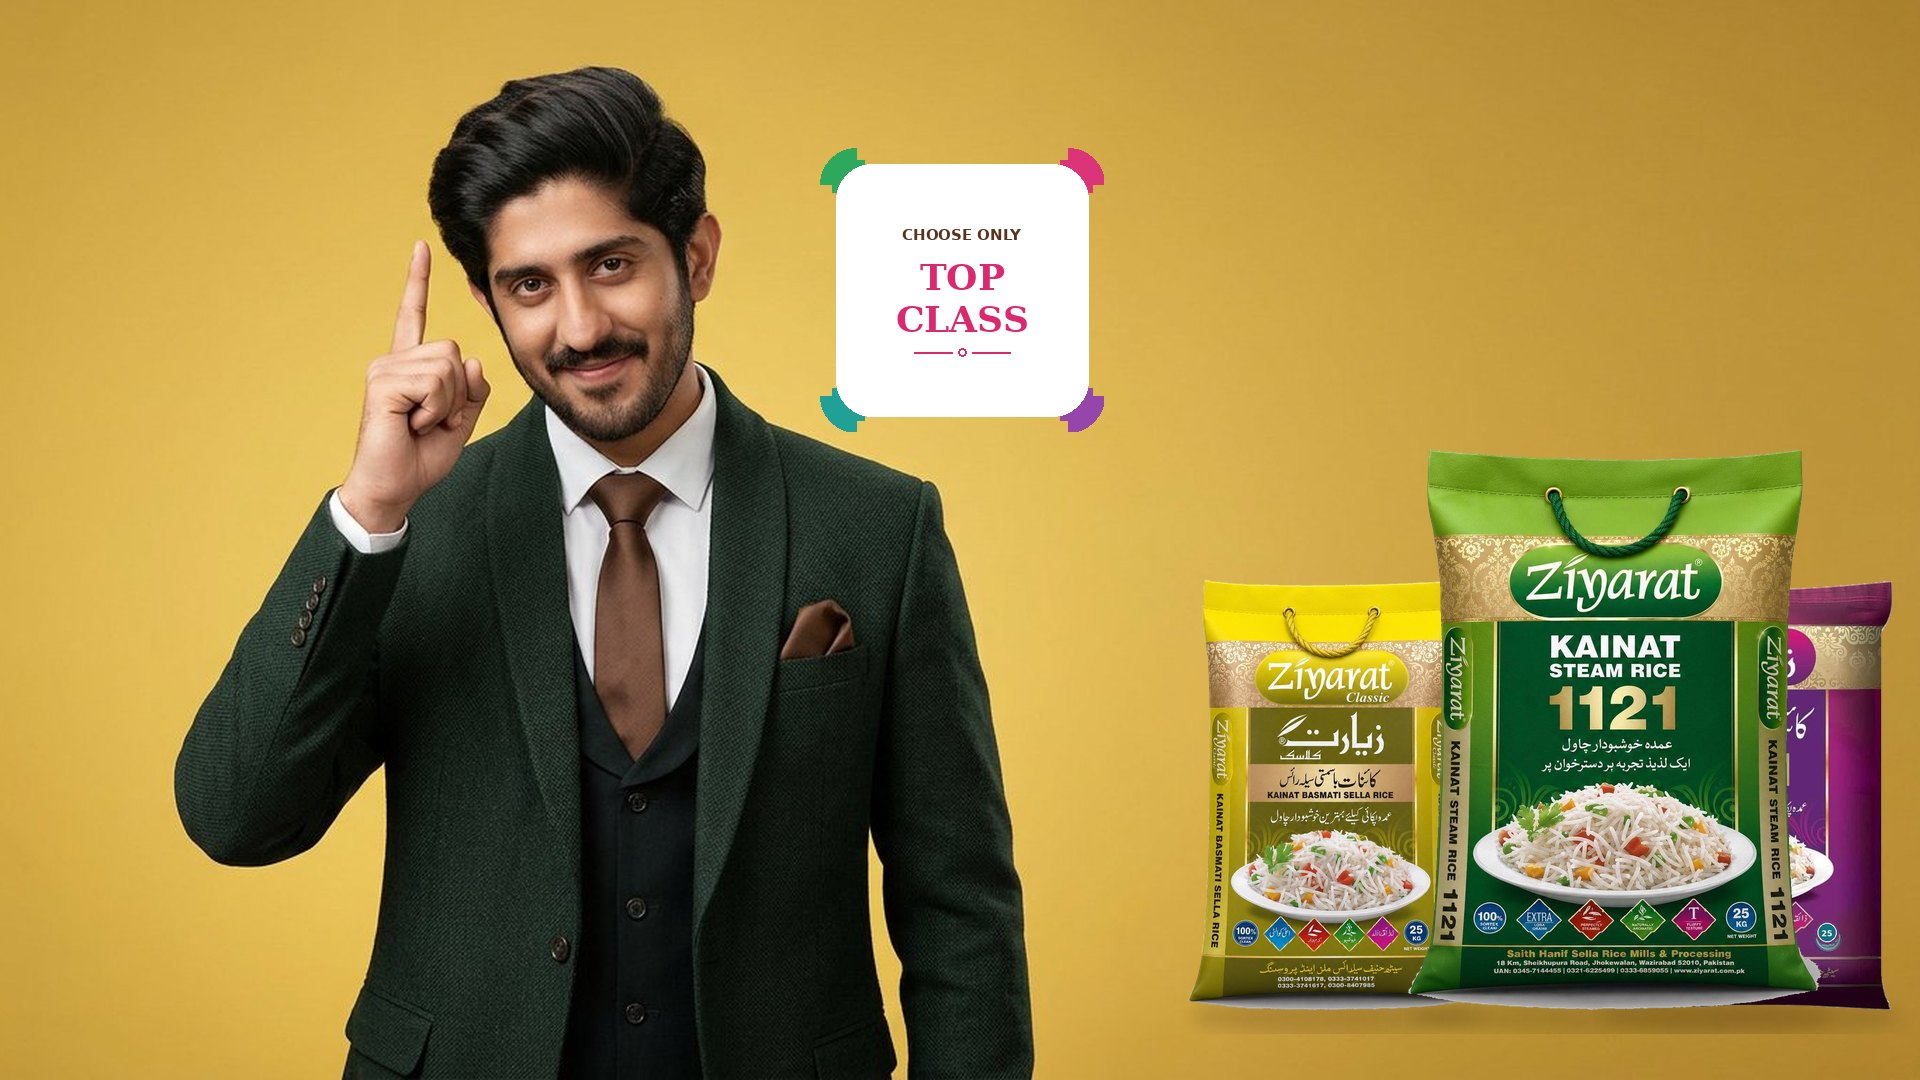
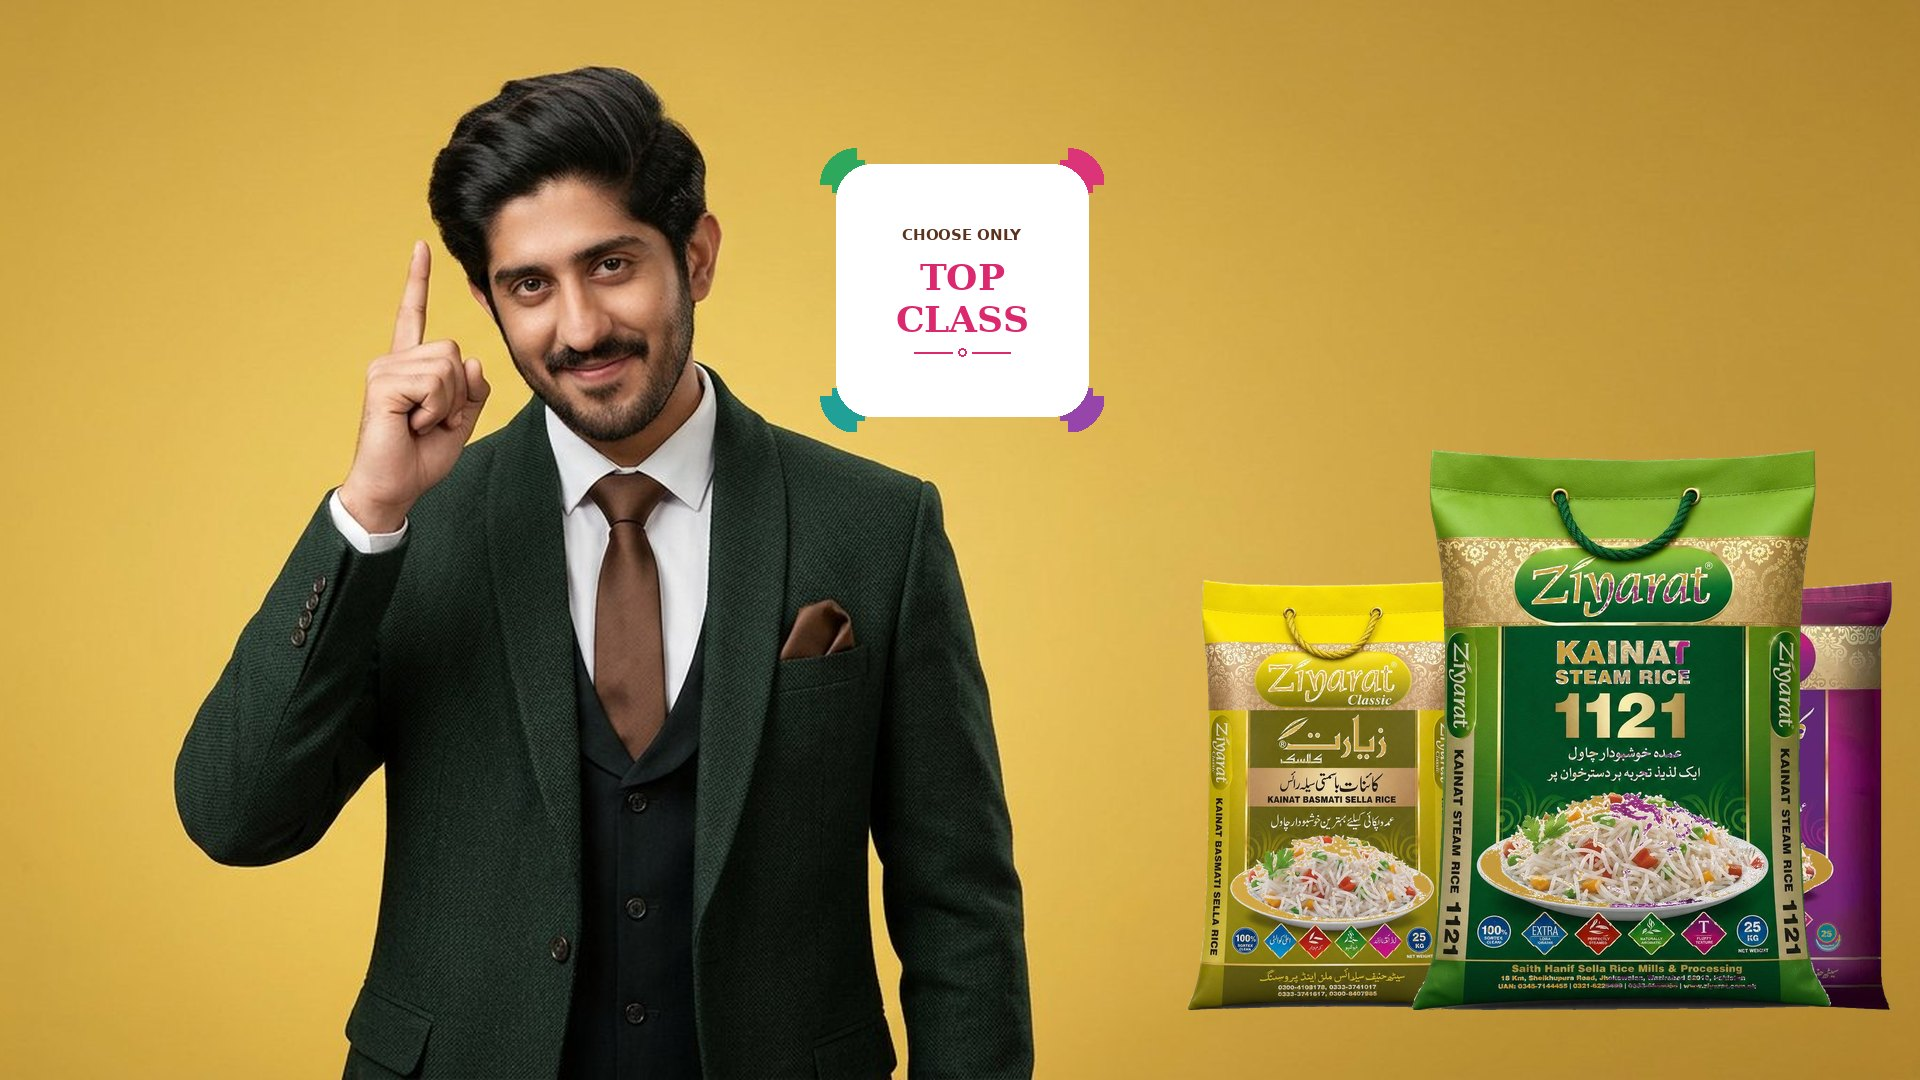
Products hero: drop the off-white shade under the packs.
Bags sit clean on the yellow. Packaging unchanged.

Changed region(s): [[0.625, 0.4278, 0.9688, 0.9778]]

diff --git a/products.html b/products.html
@@ -56,7 +56,7 @@
 
     <section class="hero page-hero products-campaign">
       <div class="hero-media">
-        <img src="assets/images/hero-products-campaign.jpg?v=3" alt="Choose only top class — Ziyarat rice from Saith Hanif Rice Mills" width="1920" height="1080" fetchpriority="high" decoding="async">
+        <img src="assets/images/hero-products-campaign.jpg?v=4" alt="Choose only top class — Ziyarat rice from Saith Hanif Rice Mills" width="1920" height="1080" fetchpriority="high" decoding="async">
       </div>
       <div class="hero-content">
         <h1 class="visually-hidden">Rice products from Jhabran</h1>
